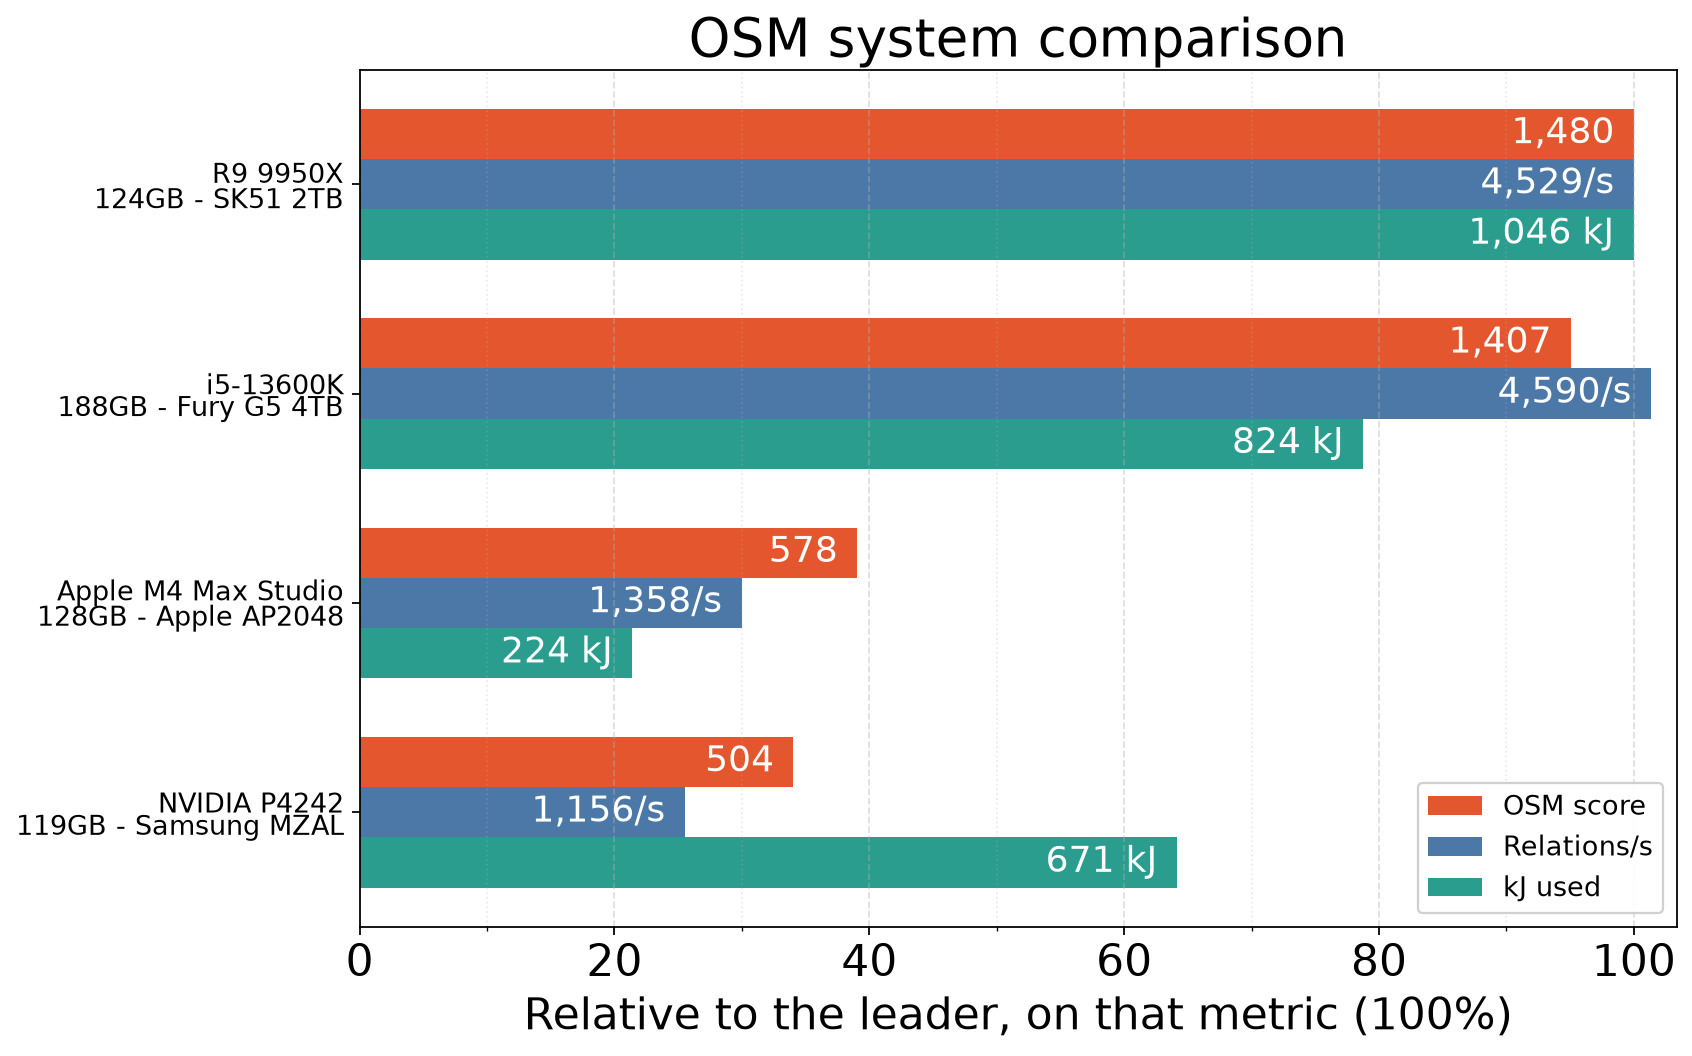
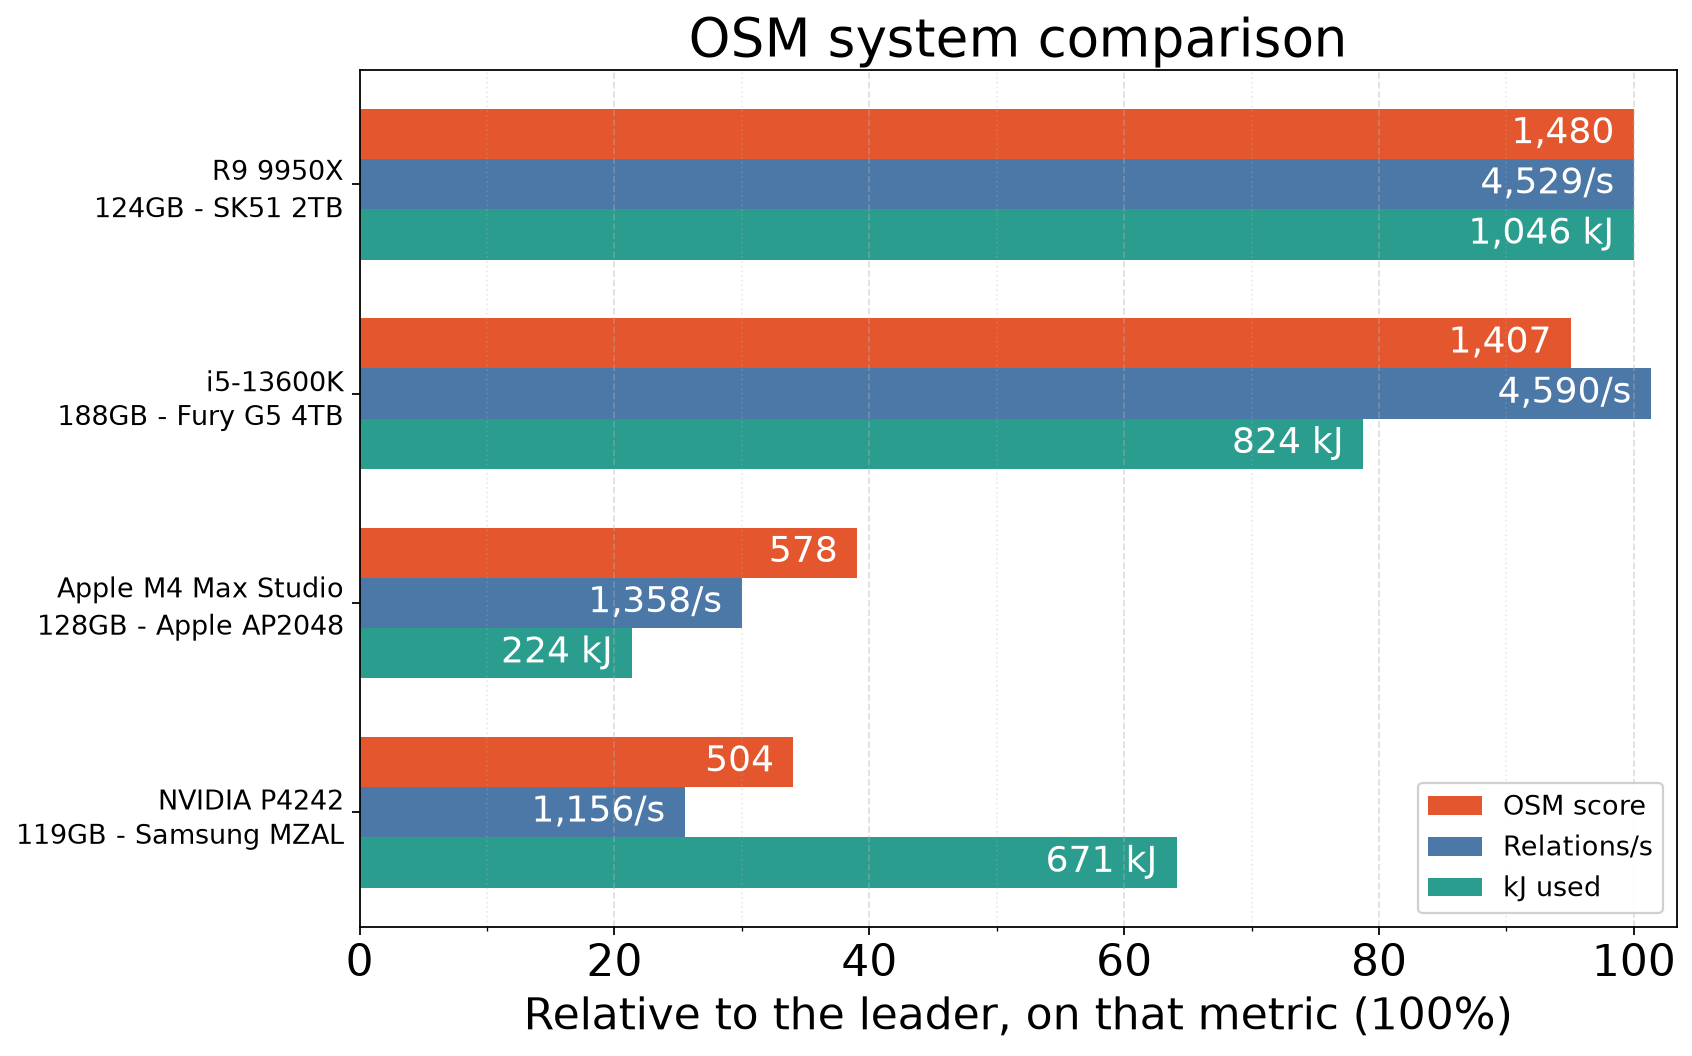
Give OSM system labels room between the CPU and memory-disk lines.
0.95 line spacing stacked the two lines on top of each other on both boards.

diff --git a/reports/osm-leaderboard.py b/reports/osm-leaderboard.py
@@ -50,6 +50,7 @@ ENERGY_COLOR = "#2a9d8f"
 BAR_LABEL_INSIDE_COLOR = "#ffffff"
 BAR_LABEL_OUTSIDE_COLOR = "#333333"
 SCATTER_MARKER_SIZE = 90
+LABEL_LINESPACING = 1.4
 DEFAULT_CONN = "host=localhost dbname=results user=gsmith password=secret"
 SQL_PATH = REPO_ROOT / "reports" / "osm-leaderboard.sql"
 LEADERBOARD_PAGE = REPO_ROOT / "docs" / "leaderboards.md"
@@ -334,7 +335,7 @@ def plot_system_compare(df: pd.DataFrame, output: Path, show: bool = False) -> N
     ax.set_yticklabels(
         plot_df["label"],
         fontsize=LEADERBOARD_Y_LABEL_FONTSIZE,
-        linespacing=0.95,
+        linespacing=LABEL_LINESPACING,
     )
     ax.set_xlabel("Relative to the leader, on that metric (100%)")
     ax.set_title("OSM system comparison")
@@ -418,7 +419,7 @@ def plot_leaderboard(df: pd.DataFrame, output: Path, show: bool = False) -> None
     ax.set_yticklabels(
         df["label"],
         fontsize=LEADERBOARD_Y_LABEL_FONTSIZE,
-        linespacing=0.95,
+        linespacing=LABEL_LINESPACING,
     )
     ax.set_xlabel("OSM load throughput (kNodes/s)")
     ax.set_title("PostgreSQL OSM load leaderboard")
